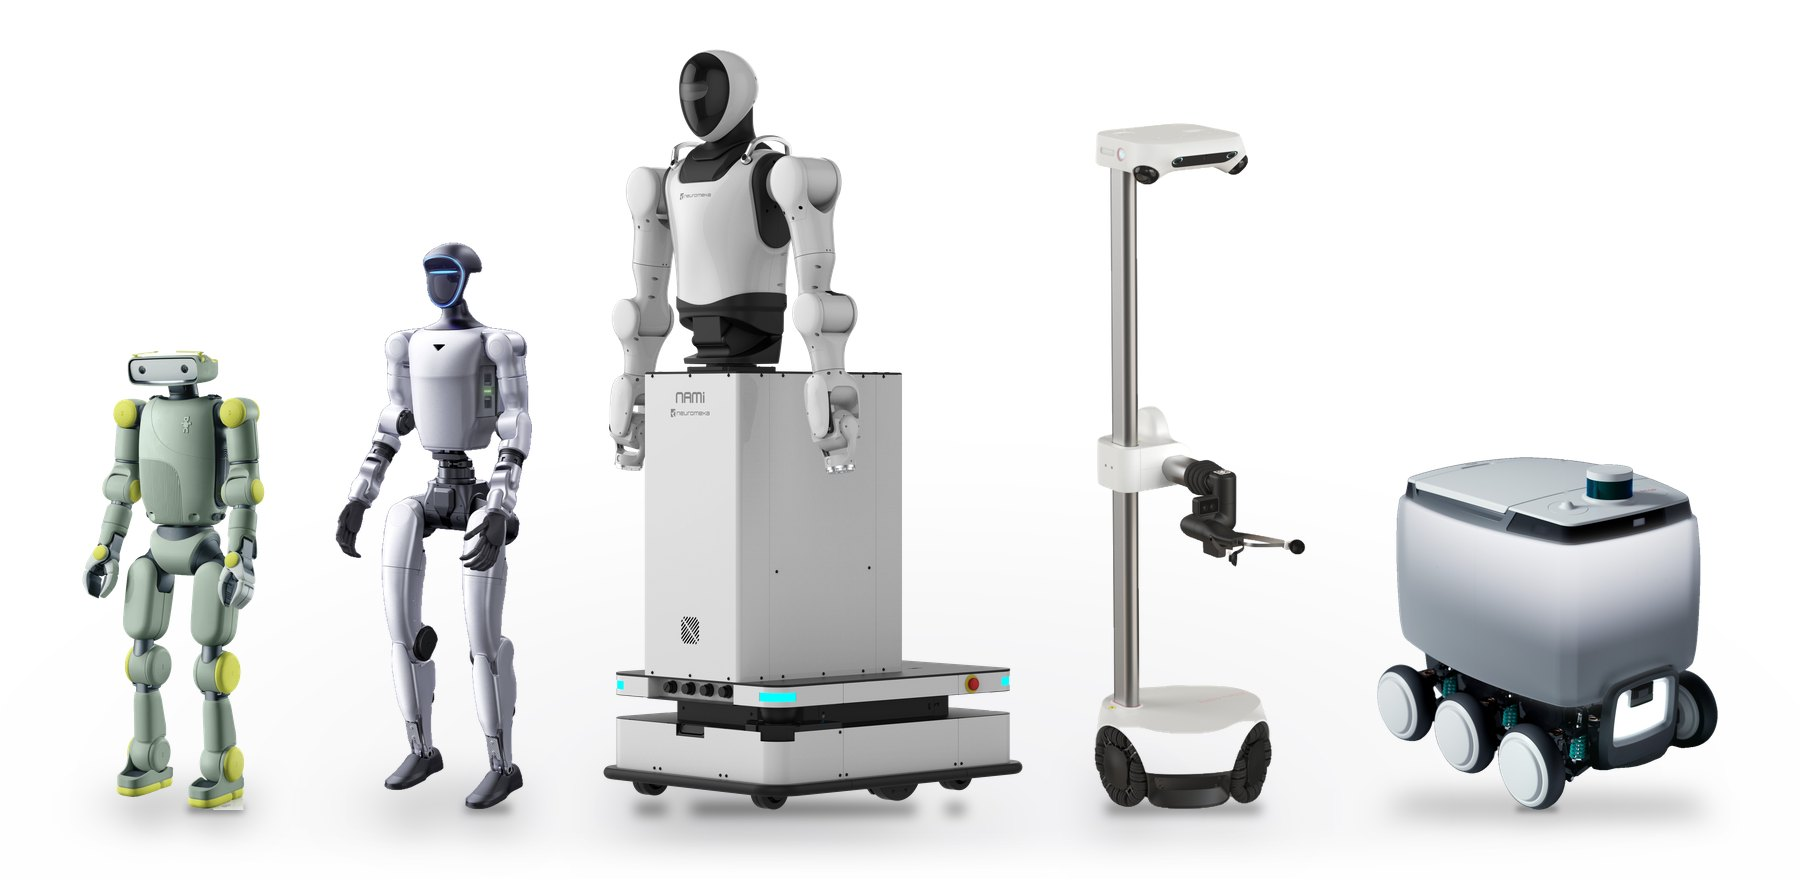
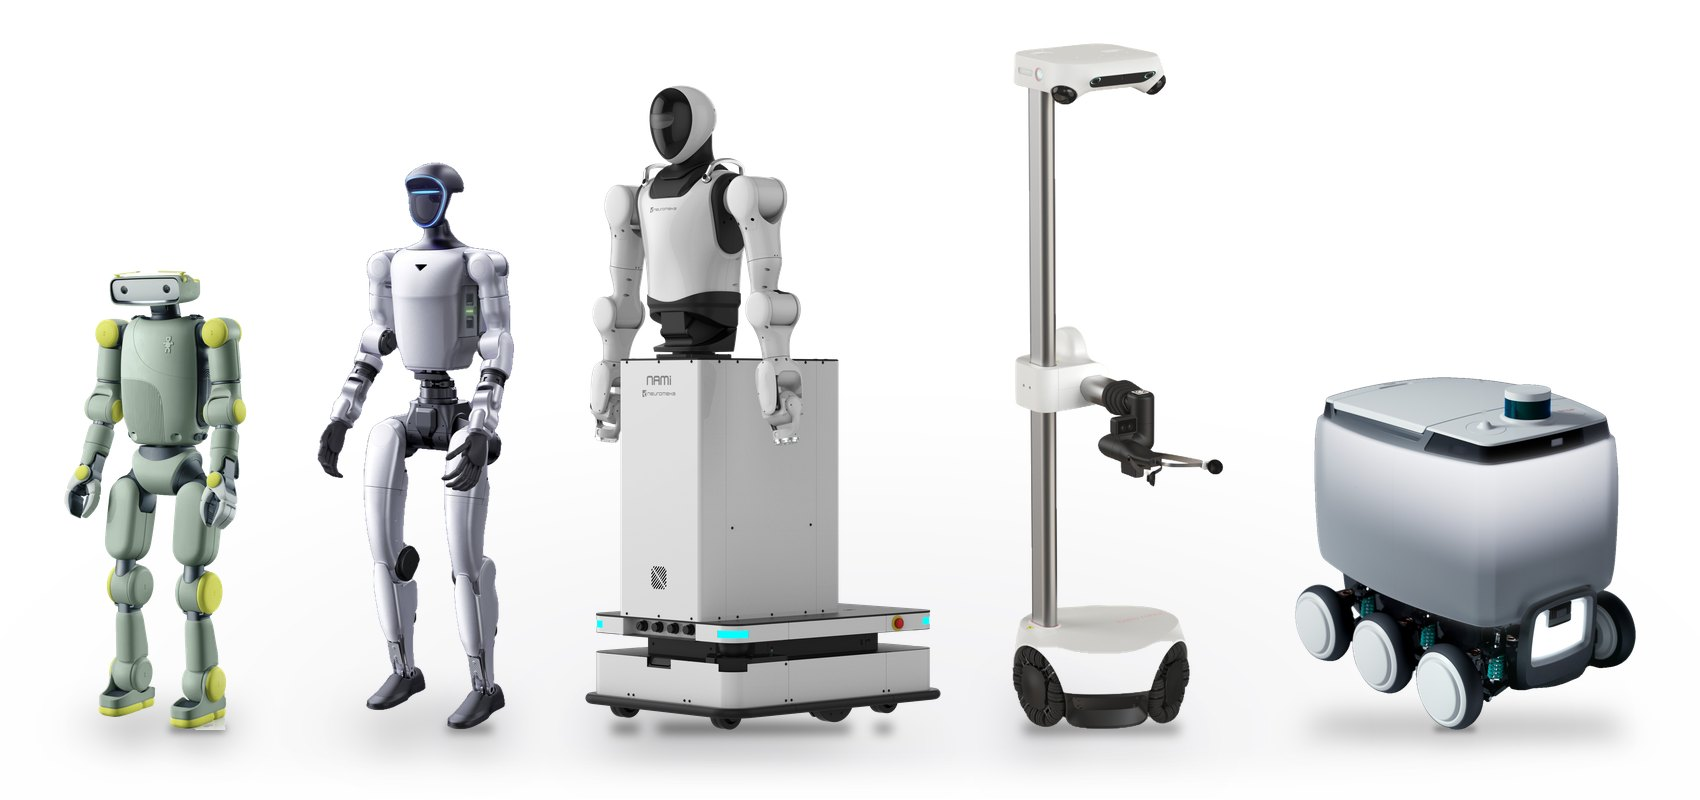
Show the robot lineup smaller, with NAMI cut down to size
NAMI stood well over everyone at its real 1.77 m, so it now stands at
1.5 m, just under Stretch. The picture is capped at 600 px wide on the page.

diff --git a/index.html b/index.html
@@ -8,7 +8,7 @@
     <meta name="author" content="Chan Lee">
     <meta name="viewport" content="width=device-width, initial-scale=1">
     <link rel="shortcut icon" href="images/favicon/favicon.ico?v=3" type="image/x-icon">
-    <link rel="stylesheet" type="text/css" href="stylesheet.css?v=7">
+    <link rel="stylesheet" type="text/css" href="stylesheet.css?v=8">
   </head>
 
   <body>
@@ -59,7 +59,7 @@
           <table style="width:100%;border:0px;border-spacing:0px;border-collapse:separate;margin-right:auto;margin-left:auto;"><tbody>
             <tr>
               <td class="lineup-cell" style="padding:0px 16px 8px;width:100%;vertical-align:middle">
-                <img class="lineup-img" src="images/robot-lineup.jpg" width="1800" height="880"
+                <img class="lineup-img" src="images/robot-lineup.jpg?v=2" width="1700" height="800"
                      alt="Robots I've worked with, side by side to scale: Fauna Sprout, Unitree G1, Neuromeka NAMI, Hello Robot Stretch 4, and Baemin's Dilly Drive">
                 <p class="lineup-caption">Robots I've worked with: Fauna Sprout &middot; Unitree G1 &middot; Neuromeka NAMI &middot; Hello Robot Stretch 4 &middot; Baemin Dilly Drive</p>
               </td>

diff --git a/stylesheet.css b/stylesheet.css
@@ -371,7 +371,9 @@ html {
 .lineup-img {
   display: block;
   width: 100%;
+  max-width: 600px;
   height: auto;
+  margin: 0 auto;
 }
 
 .lineup-caption {
